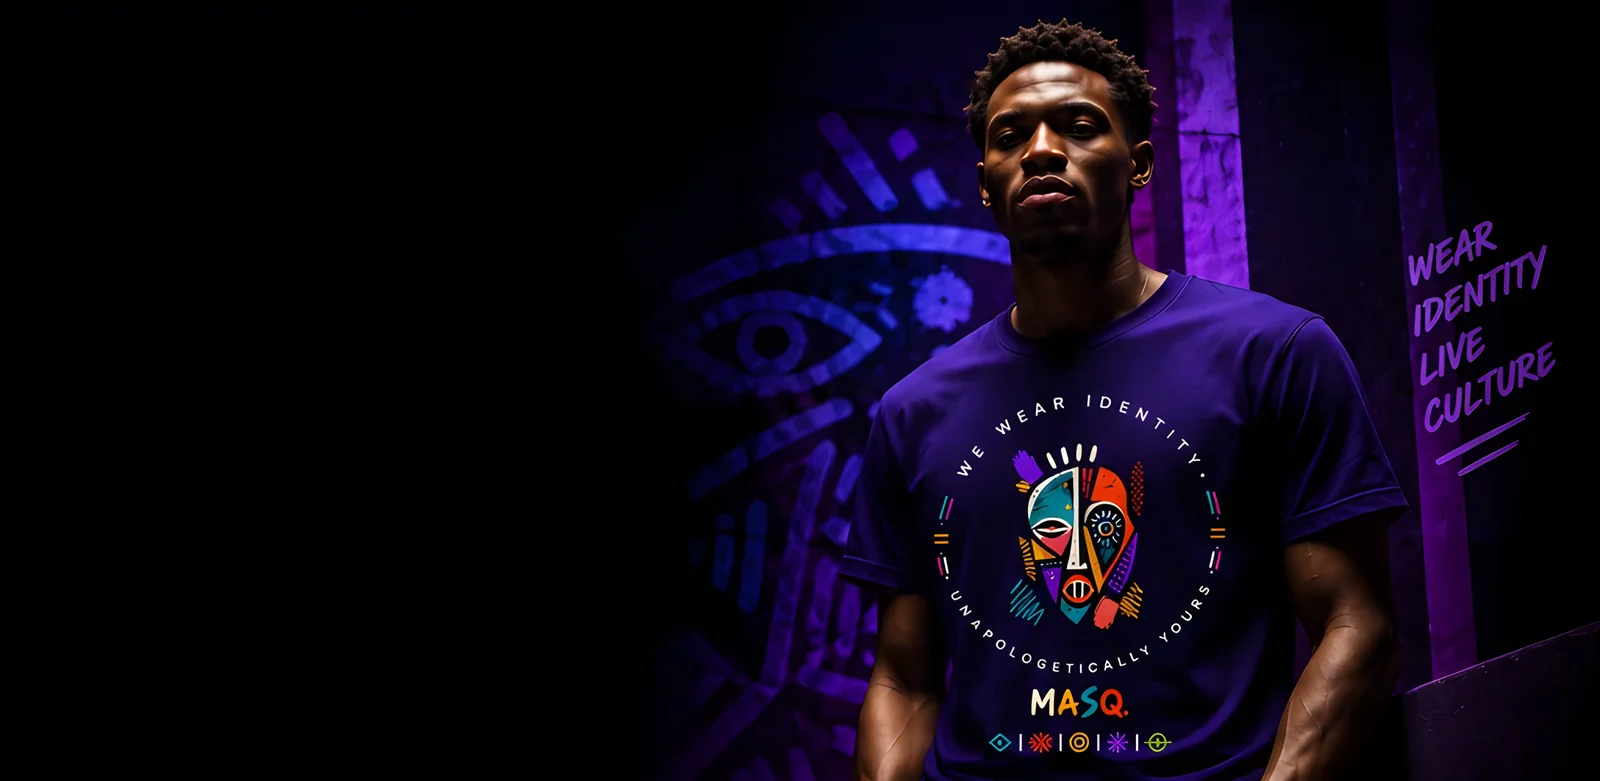
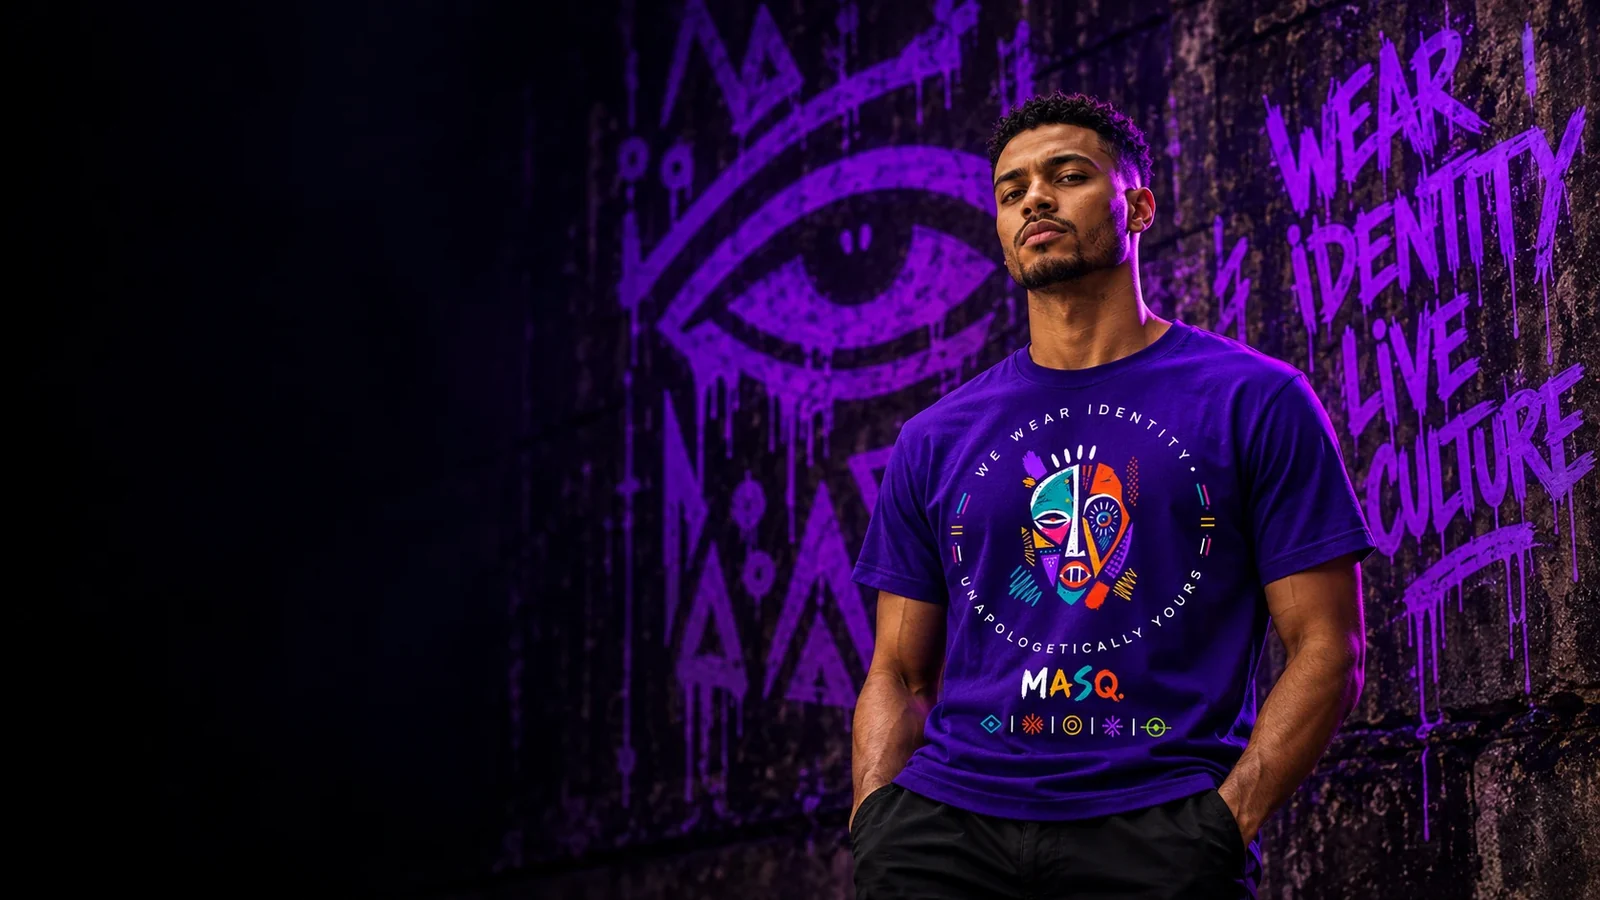
Top of the home page: Dayo and Ifeoma take turns
The owner's two new campaign photos become the built-in pair at the top of
the home page (hero-design / hero-design-2, 1600 px with 1672 px @2x),
fading every 8 seconds; the admin's second slot now shows the built-in
photo as its original. Descriptions for screen readers updated. Photo
prompts gain five calmer background options to try.

Claude-Session: https://claude.ai/code/session_01QW3UdEpbYWY1t8Z1jUMjPj

diff --git a/e2e/pages.spec.js b/e2e/pages.spec.js
@@ -160,16 +160,21 @@ test('a device set to reduce motion gets the shop without the extra movement', a
 });
 
 test('a second top photo takes turns with the first, as often as the owner chooses', async ({ page }) => {
+  // Out of the box: the design's two photos take turns.
+  await page.goto('/');
+  await expect(page.locator('.hero__shot img').nth(1)).toHaveAttribute('src', '/assets/img/hero-design-2.webp');
+
   await signIn(page);
   await page.goto('/admin#home');
   const second = page.locator('.admin-home-photo--hero2');
-  await expect(second.locator('.admin-home-photo__tag')).toHaveText('NONE');
-  await second.getByLabel('Photo for Top of the page: second photo (optional)').setInputFiles(PHOTO);
+  await expect(second.locator('.admin-home-photo__tag')).toHaveText('ORIGINAL');
+  await second.getByLabel('Photo for Top of the page: second photo').setInputFiles(PHOTO);
   await expect(second.locator('.admin-home-photo__tag')).toHaveText('YOUR PHOTO');
   await page.getByLabel('The two top photos switch').selectOption('5');
   await expect(page.locator('.admin-hero-switch .admin-note--ok')).toBeVisible();
 
   await page.goto('/');
+  await expect(page.locator('.hero__shot img').nth(1)).toHaveAttribute('src', /^\/api\/images\/\d+$/);
   const shots = page.locator('.hero__shot');
   await expect(shots).toHaveCount(2);
   await expect(shots.nth(0)).toHaveClass(/is-on/);
@@ -204,13 +209,13 @@ test('the home page words, menu and photos are changed from the admin', async ({
   await expect(page.locator('#drop .section__title')).toHaveText('Drop 02 — Night Rituals');
   const nav = page.getByRole('navigation', { name: 'Primary' });
   await expect(nav.getByRole('link')).toHaveText(['SHOP', 'LOOKBOOK', 'ABOUT']);
-  await expect(page.locator('.hero__media img')).toHaveAttribute('src', /^\/api\/images\/\d+$/);
-  expect(await page.locator('.hero__media img').evaluate(img => img.decode().then(() => img.naturalWidth))).toBeGreaterThan(0);
+  await expect(page.locator('.hero__media img').first()).toHaveAttribute('src', /^\/api\/images\/\d+$/);
+  expect(await page.locator('.hero__media img').first().evaluate(img => img.decode().then(() => img.naturalWidth))).toBeGreaterThan(0);
 
   // And back to the design's own photo.
   await page.goto('/admin#home');
   await hero.getByRole('button', { name: 'use original' }).click();
   await expect(hero.locator('.admin-home-photo__tag')).toHaveText('ORIGINAL');
   await page.goto('/');
-  await expect(page.locator('.hero__media img')).toHaveAttribute('src', '/assets/img/hero-design.webp');
+  await expect(page.locator('.hero__media img').first()).toHaveAttribute('src', '/assets/img/hero-design.webp');
 });

diff --git a/src/components/Hero.jsx b/src/components/Hero.jsx
@@ -14,10 +14,12 @@ export default function Hero() {
   // The owner's photo once it is known to be there; the design's otherwise.
   const photo = images.hero;
 
-  // A second photo, if the owner added one, takes turns with the first: a
-  // slow cross-fade every few seconds (Admin → HOME), paused while the tab
-  // is hidden, and never on a device set to reduce motion.
-  const second = images.hero2;
+  // The second photo (the owner's, or the built-in one) takes turns with the
+  // first: a slow cross-fade every few seconds (Admin → HOME PAGE), paused
+  // while the tab is hidden, and never on a device set to reduce motion.
+  const second = images.hero2 ?? {
+    img: asset('assets/img/hero-design-2.webp'), img2x: asset('assets/img/hero-design-2@2x.webp'), builtIn: true
+  };
   const every = home.heroEvery ?? 8;
   const calm = useReducedMotion();
   const turns = Boolean(second) && every > 0 && !calm;
@@ -55,10 +57,10 @@ export default function Hero() {
               src={photo ? photo.img : asset('assets/img/hero-design.webp')}
               srcSet={photo
                 ? `${photo.img} 1x, ${photo.img2x} 2x`
-                : `${asset('assets/img/hero-design.webp')} 1600w, ${asset('assets/img/hero-design@2x.webp')} 3000w`}
+                : `${asset('assets/img/hero-design.webp')} 1600w, ${asset('assets/img/hero-design@2x.webp')} 1672w`}
               sizes={photo ? undefined : '(max-width: 900px) 250vw, 100vw'}
               alt={home.heroImageAlt}
-              {...(photo ? {} : { width: 3000, height: 1465 })}
+              {...(photo ? {} : { width: 1672, height: 941 })}
               fetchPriority="high"
               initial={{ opacity: 0, scale: 1.08 }}
               animate={{ opacity: 1, scale: 1 }}
@@ -68,7 +70,9 @@ export default function Hero() {
         )}
         {ready && turns && (
           <div className={`hero__shot${shown === 1 ? ' is-on' : ''}`} aria-hidden={shown !== 1 || undefined}>
-            <img src={second.img} srcSet={`${second.img} 1x, ${second.img2x} 2x`}
+            <img src={second.img}
+                 srcSet={second.builtIn ? `${second.img} 1600w, ${second.img2x} 1672w` : `${second.img} 1x, ${second.img2x} 2x`}
+                 sizes={second.builtIn ? '(max-width: 900px) 250vw, 100vw' : undefined}
                  alt={home.heroImageAlt2 ?? home.heroImageAlt} fetchPriority="low" decoding="async" />
           </div>
         )}

diff --git a/src/pages/admin/HomeTab.jsx b/src/pages/admin/HomeTab.jsx
@@ -22,8 +22,8 @@ function Note({ state }) {
 const SLOTS = [
   ['hero', 'Top of the page', 'assets/img/hero-design.webp',
     'The big photo behind MASQ. On a computer it fills the whole top of the page (a wide 2 : 1 picture) with the words on its left, so keep the subject to the right and the left side dark; on a phone it sits above the words.'],
-  ['hero2', 'Top of the page: second photo (optional)', null,
-    'Add one and the two take turns at the top of the page, fading slowly from one to the other. Frame it like the first (subject on the right, left side dark) so the fade lines up. Remove it to show the first photo only.'],
+  ['hero2', 'Top of the page: second photo', 'assets/img/hero-design-2.webp',
+    'Takes turns with the first photo, fading slowly from one to the other (choose how often below, or never). Frame it like the first (subject on the right, left side dark) so the fade lines up.'],
   ['band', 'Craft band', 'assets/img/band-design.webp',
     'The strip behind “Craft. Culture. Identity.” Your photo is dimmed under the words, so a carving, a texture or a detail works best. Cut to a wide 3 : 1 strip.'],
   ['countdown', 'Countdown', 'assets/img/countdown.webp',
@@ -306,7 +306,7 @@ export default function HomeTab() {
           <div key={slot}>
             <PhotoSlot slot={slot} title={title} builtIn={builtIn} help={help}
                        current={images[slot]} onChanged={loadImages} />
-            {slot === 'hero2' && images.hero2 && heroSwitch && <HeroSwitch value={heroSwitch} onSaved={setHeroSwitch} />}
+            {slot === 'hero2' && heroSwitch && <HeroSwitch value={heroSwitch} onSaved={setHeroSwitch} />}
           </div>
         ))}
       </div>

diff --git a/src/data/home.js b/src/data/home.js
@@ -12,8 +12,8 @@ export const HOME_DEFAULT = {
   heroText:        'Contemporary fashion and lifestyle pieces inspired by African heritage, designed for a global generation.',
   heroButton:      'SHOP DROP 01',
   heroButton2:     'EXPLORE',
-  heroImageAlt:    'Model wearing the MASQ. Face Tee in ultraviolet',
-  heroImageAlt2:   'Model wearing the MASQ. Face Tee in black',
+  heroImageAlt:    'A man in the violet MASQ. Face Tee before a painted eye mural',
+  heroImageAlt2:   'A woman in the black MASQ. Face Tee before a painted eye mural',
   craftTitle:      'Craft. Culture. Identity.',
   craftText:       'Each piece is designed as a modern artifact —\nwhere heritage meets contemporary expression.',
   dropTitle:       'Drop 01 — Urban Rituals',

diff --git a/design/PHOTO-PROMPTS.md b/design/PHOTO-PROMPTS.md
@@ -186,6 +186,41 @@ Avoid: plastic or waxy skin, airbrushing, over-sharpening, HDR, extra fingers, w
 
 ---
 
+## Background options (edit the chosen top-of-page photos)
+
+A calmer, more mature setting than the graffiti eye. Attach Dayo's top-of-page photo and send ONE option at a time (each in a fresh message), compare, then pick one. When you have picked, send the same option again with Ifeoma's photo attached, changing "Dayo" to "Ifeoma", so the pair matches.
+
+Every option starts with this line:
+
+```
+Edit the attached photo. Keep Dayo exactly as he is: face, skin, pose, T-shirt and print, trousers, size and position in the frame, and the light on him. Change only the background. Keep the left half of the picture dark and quiet for the website's words. Real photograph, true-to-life colour, 16:9, largest size.
+```
+
+**A. Studio, minimal luxury**
+```
+Background: a seamless studio backdrop in deep charcoal, almost black, lit by one soft violet glow from behind him that fades to black at the edges. Nothing else: no walls, no texture, no text. Like a luxury fashion campaign.
+```
+
+**B. Brutalist architecture, Lagos at night**
+```
+Background: raw board-formed concrete architecture at night, in the style of Lagos modernist buildings: deep vertical concrete fins and shadowed recesses, softly out of focus. Cool dark tones with a faint violet light grazing the concrete from the right. No text, no graffiti.
+```
+
+**C. Indigo textile wall**
+```
+Background: a large hand-dyed indigo adire cloth hung flat behind him, deep blue-black with subtle resist-dyed geometric patterns, softly lit from the right so the folds and texture show, falling into darkness on the left. No text.
+```
+
+**D. Gallery wall with carved relief**
+```
+Background: a dark gallery wall in charcoal lime plaster, with a large abstract hand-carved dark wood relief panel of geometric patterns behind his shoulder, lit by one narrow spotlight; everything else falls to black. Quiet and museum-like. No text.
+```
+
+**E. Night city, soft focus**
+```
+Background: Lagos at blue hour seen from a high terrace, the city lights far behind him and completely out of focus as soft bokeh, deep navy and violet tones, the left side of the sky dark. No readable signs or text.
+```
+
 ## The first cast, kept for reference: Tobi and Amara
 
 Deep ebony skin. To use them instead, send these as messages 1 and 2 and change the names in 3 to 8.

diff --git a/README.md b/README.md
@@ -616,11 +616,13 @@ that resolution. Several assets needed repair or reframing:
   graft's join is applied only where a graft actually exists: an edge with no
   margin has no join, and blurring it there smears the photograph itself.
 
-Since the October redesign the top of the home page uses the hero of the owner's
-landing design itself (`design/landing-redesign.webp`): its menu, words, buttons and
-faces taken out and filled from the wall around them, then enlarged four times with
-Real-ESRGAN, to `hero-design.webp` / `hero-design@2x.webp`. The brush words stay
-painted on the wall, as designed. The craft band ("Craft. Culture. Identity.") is
+The top of the home page is two campaign photos that take turns: Dayo in the
+violet tee (`hero-design.webp`) and Ifeoma in the black (`hero-design-2.webp`),
+each with an `@2x` copy at the original 1672 px. Both were made in ChatGPT from
+`design/PHOTO-PROMPTS.md` (AI-made models, shown as campaign photos only), framed
+alike before the same eye mural and brush words, so the fade changes only the
+person. (Before them, the landing design's own hero, cleaned and enlarged with
+Real-ESRGAN, sat there.) The craft band ("Craft. Culture. Identity.") is
 the landing design's own band too (`band-design.webp`): the carved violet eyes at both
 ends, its words taken out and enlarged four times the same way, with the design's mask
 emblem cut out and sharpened (`src/assets/craft-emblem.webp`). The
